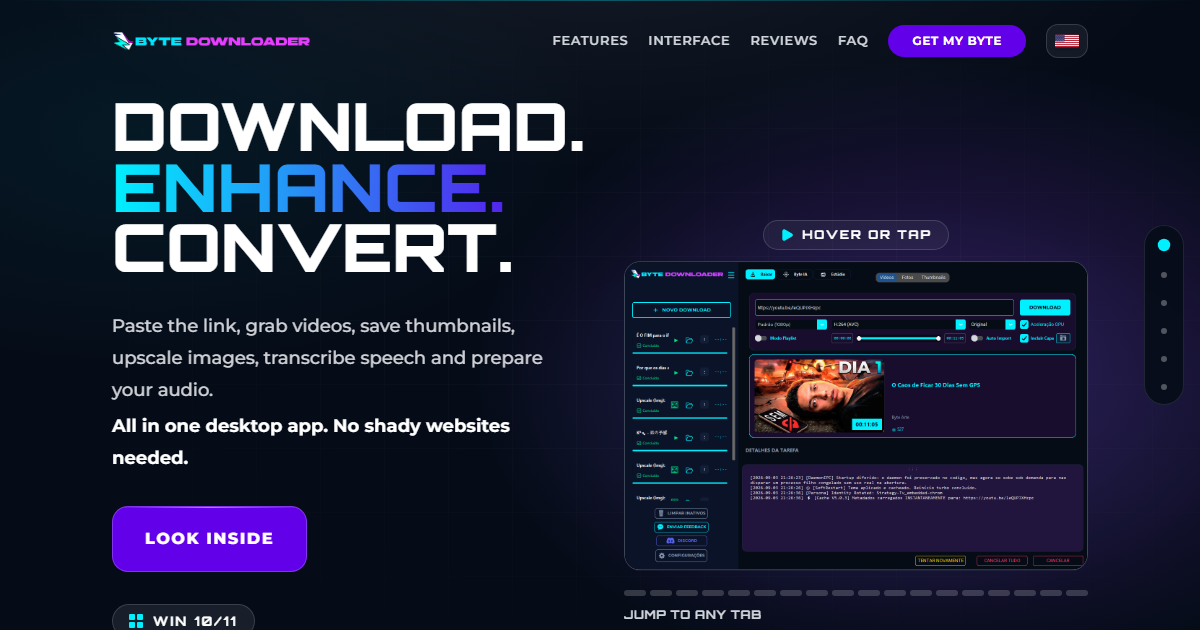
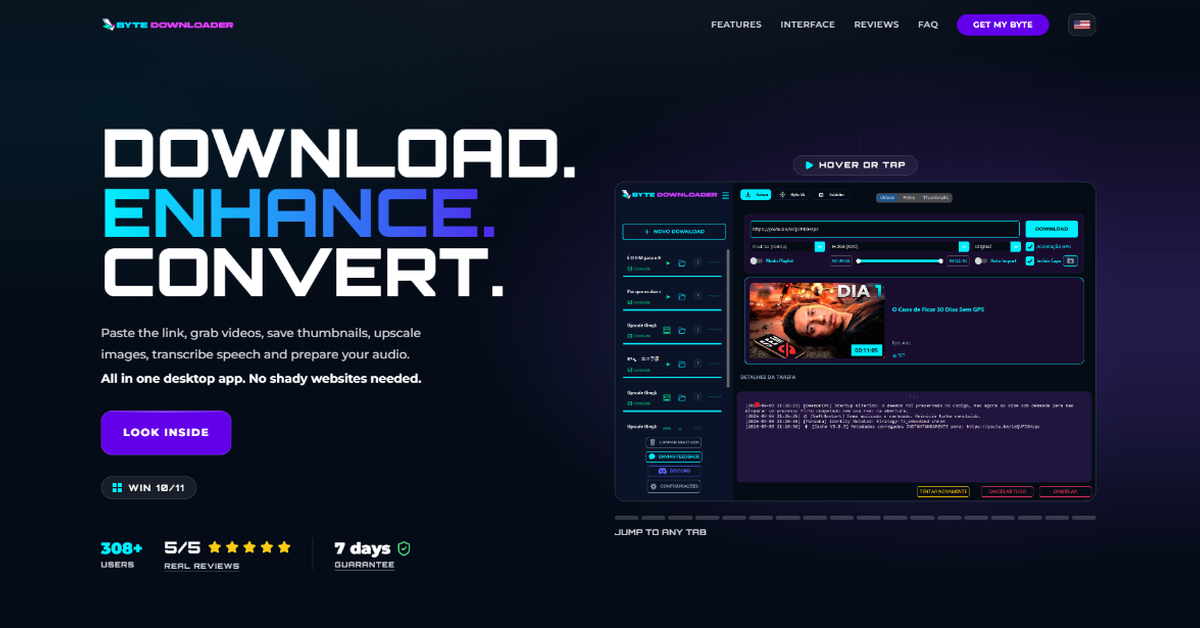
feat: atualizar social preview v4 com estatisticas completas 308+ users e reviews

diff --git a/i18n/LanguageContext.tsx b/i18n/LanguageContext.tsx
@@ -116,7 +116,7 @@ export const LanguageProvider: React.FC<{ children: ReactNode }> = ({ children }
       document.querySelector(selector)?.setAttribute('content', copy.hero.subtitle);
     }
     const imgUrl = (lang === 'en')
-      ? 'https://jonesbyte.github.io/bd/preview-bd-en-v1.png?v=20261022-en1'
+      ? 'https://jonesbyte.github.io/bd/preview-bd-en-v4.png?v=20261022-v4'
       : 'https://jonesbyte.github.io/bd/preview-bd-v8.png';
     for (const selector of ['meta[property="og:image"]', 'meta[property="og:image:secure_url"]', 'meta[name="twitter:image"]']) {
       document.querySelector(selector)?.setAttribute('content', imgUrl);
